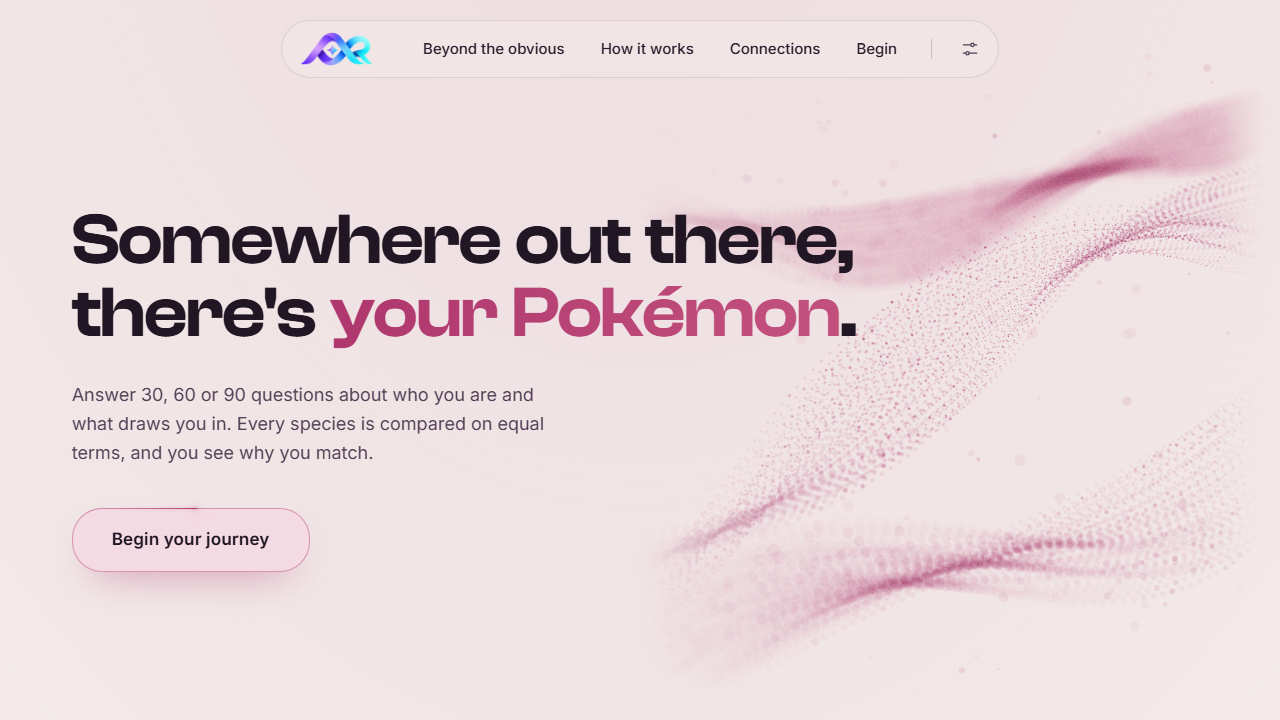
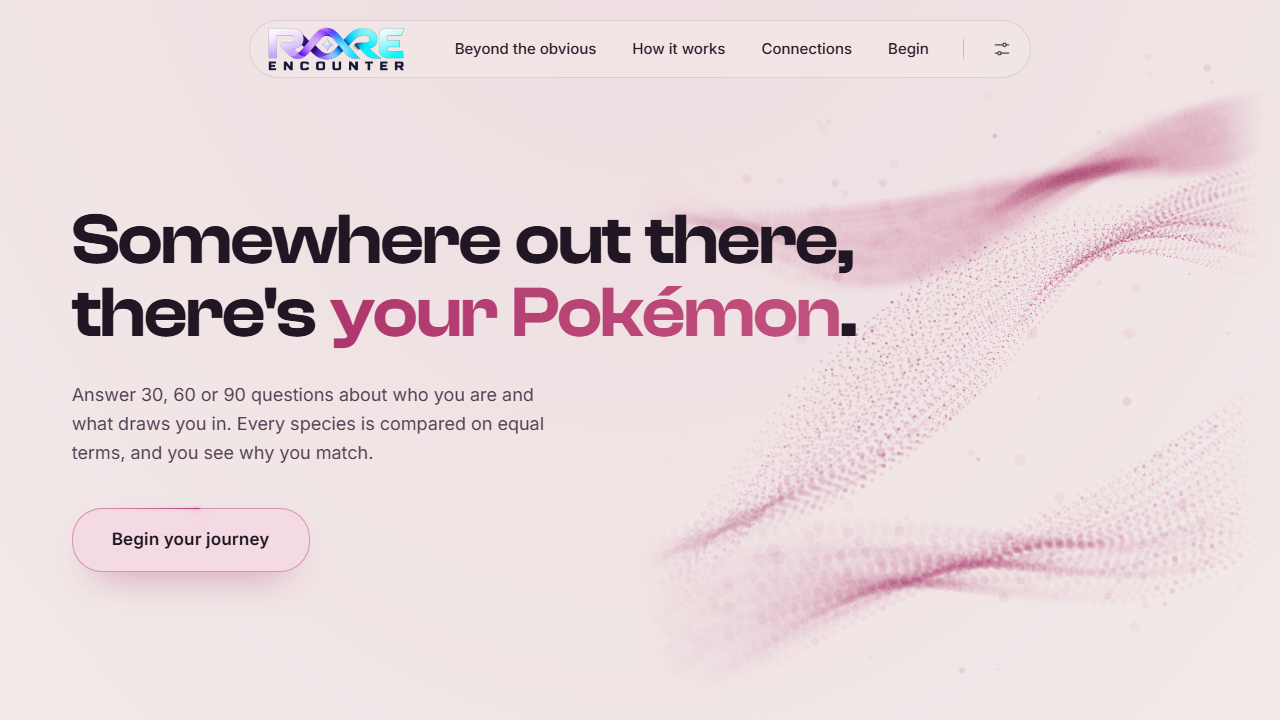
fix(visual-polish): light-surface finish of the logotype for light mode

Changed region(s): [[0.1875, 0.0306, 0.7188, 0.1222], [0.75, 0.0611, 0.7812, 0.0917]]

diff --git a/e2e/lunar-slider.spec.ts b/e2e/lunar-slider.spec.ts
@@ -195,11 +195,55 @@ test.describe('reduced motion', () => {
   });
 });
 
-test('light mode uses the compact symbol in the desktop nav', async ({ page }) => {
+test('the full logotype shows in both modes, with its light-surface finish in light', async ({
+  page,
+}) => {
   test.skip(!isDesktop(page), 'The full logotype only shows on the desktop nav');
   await seed(page, { schemaVersion: 2, data: { locale: null, theme: 'spectrum', mode: 'light' } });
   await page.goto('/');
-  await expect(page.locator('.liquid-nav .logo')).toHaveAttribute('data-variant', 'symbol');
+  const logo = page.locator('.liquid-nav .logo');
+  const image = logo.locator('img');
+  await expect(logo).toHaveAttribute('data-variant', 'full');
+  await expect(logo).toHaveAttribute('data-tone', 'light');
+  await expect(image).toHaveAttribute('src', /logo-onlight-88/);
+  const box = await logo.boundingBox();
+
+  // Switching mode swaps the finish only: same mark, same box, no shift.
+  const dialog = await openSettings(page);
+  await dialog.getByRole('switch', { name: 'Light mode' }).click();
+  await dialog.getByRole('button', { name: 'Close' }).click();
+  await expect(logo).toHaveAttribute('data-tone', 'dark');
+  await expect(image).toHaveAttribute('src', /logo-88/);
+  expect(await logo.boundingBox()).toEqual(box);
+
+  // A palette change keeps the finish of the current mode, also after a reload.
+  await (await openSettings(page)).getByRole('switch', { name: 'Light mode' }).click();
+  await page.getByRole('dialog').getByRole('radio', { name: 'Verdant' }).check();
+  await page.reload();
+  await expect(logo).toHaveAttribute('data-tone', 'light');
+  await expect(image).toHaveAttribute('src', /logo-onlight-88/);
+
+  // The condensed nav keeps the approved compact symbol.
+  await page.evaluate(() => {
+    window.scrollTo({ top: 900, behavior: 'instant' });
+  });
+  await expect(logo).toHaveAttribute('data-variant', 'symbol');
+});
+
+test('phones keep the compact symbol in the top bar, in both modes', async ({ page }) => {
+  test.skip(isDesktop(page), 'Top bar is the phone and tablet chrome');
+  for (const mode of ['dark', 'light'] as const) {
+    await page.goto('/');
+    await page.evaluate(
+      (v) => {
+        localStorage.setItem('rare-encounter:preferences', v);
+      },
+      JSON.stringify({ schemaVersion: 2, data: { locale: null, theme: 'sakura', mode } }),
+    );
+    await page.reload();
+    await expect(root(page)).toHaveAttribute('data-mode', mode);
+    await expect(page.locator('.top-bar .logo')).toHaveAttribute('data-variant', 'symbol');
+  }
 });
 
 test('no new horizontal overflow and no clipped settings in light mode', async ({ page }) => {

diff --git a/src/components/logo/logo-asset.ts b/src/components/logo/logo-asset.ts
@@ -1,5 +1,7 @@
 import logo88 from '../../assets/brand/logo-88.webp';
 import logo132 from '../../assets/brand/logo-132.webp';
+import logoOnLight88 from '../../assets/brand/logo-onlight-88.webp';
+import logoOnLight132 from '../../assets/brand/logo-onlight-132.webp';
 import symbol72 from '../../assets/brand/symbol-72.webp';
 import symbol108 from '../../assets/brand/symbol-108.webp';
 
@@ -14,8 +16,21 @@ export interface BrandImage {
  * The approved logotype and compact symbol, optimized from the authentic files in
  * design-references/approved/assets-01b with only their transparent margin trimmed
  * (never redrawn; see scripts/build-assets.mjs).
+ *
+ * `fullOnLight` is the same logotype for light surfaces: only the colour of the "ENCOUNTER"
+ * lettering changes (to the logo's own outline navy), with identical alpha and geometry; see
+ * scripts/make-logo-onlight.mjs.
  */
-export const LOGO_ASSET: { readonly full: BrandImage; readonly symbol: BrandImage } = {
+export const LOGO_ASSET: {
+  readonly full: BrandImage;
+  readonly fullOnLight: BrandImage;
+  readonly symbol: BrandImage;
+} = {
   full: { src: logo88, srcSet: `${logo88} 2x, ${logo132} 3x`, ratio: 1831 / 591 },
+  fullOnLight: {
+    src: logoOnLight88,
+    srcSet: `${logoOnLight88} 2x, ${logoOnLight132} 3x`,
+    ratio: 1831 / 591,
+  },
   symbol: { src: symbol72, srcSet: `${symbol72} 2x, ${symbol108} 3x`, ratio: 1061 / 492 },
 };

diff --git a/src/components/nav/SiteNav.tsx b/src/components/nav/SiteNav.tsx
@@ -12,12 +12,8 @@ export interface NavItem {
 
 interface SiteNavProps {
   readonly brand: string;
-  /**
-   * Whether the full logotype may show at the top of the page. False on light surfaces: the
-   * approved logotype's "ENCOUNTER" is drawn for the night and does not read on paper, so the
-   * approved compact symbol is used until a light-surface version of the logotype exists.
-   */
-  readonly fullLogo?: boolean;
+  /** The surface tone the nav sits on: picks the logotype's dark or light-surface finish. */
+  readonly logoTone?: 'dark' | 'light';
   readonly label: string;
   readonly items: readonly NavItem[];
   readonly activeId: string | null;
@@ -37,7 +33,7 @@ const SPRING = { type: 'spring', stiffness: 420, damping: 36, mass: 0.9 } as con
  */
 export function SiteNav({
   brand,
-  fullLogo = true,
+  logoTone = 'dark',
   label,
   items,
   activeId,
@@ -52,7 +48,7 @@ export function SiteNav({
   return (
     <header className="site-nav" data-scrolled={scrolled}>
       <motion.div className="liquid-nav" layout transition={SPRING}>
-        <Logo name={brand} variant={scrolled || !fullLogo ? 'symbol' : 'full'} />
+        <Logo name={brand} tone={logoTone} variant={scrolled ? 'symbol' : 'full'} />
         <nav aria-label={label}>
           <LayoutGroup id="liquid-nav">
             <ul

diff --git a/src/components/logo/Logo.tsx b/src/components/logo/Logo.tsx
@@ -11,13 +11,19 @@ interface LogoProps {
    * compact mark) for the condensed nav and phones, where the full lockup would be too small.
    */
   readonly variant?: 'full' | 'symbol';
+  /**
+   * The surface it sits on. On light surfaces the full logotype uses its light-surface
+   * finish ("ENCOUNTER" in the logo's navy); the symbol reads on both and is unchanged.
+   */
+  readonly tone?: 'dark' | 'light';
 }
 
 /** Brand link with the authentic logotype or compact symbol, crossfading between them. */
-export function Logo({ name, href = '#top', variant = 'full' }: LogoProps) {
-  const asset = LOGO_ASSET[variant];
+export function Logo({ name, href = '#top', variant = 'full', tone = 'dark' }: LogoProps) {
+  const asset =
+    variant === 'full' && tone === 'light' ? LOGO_ASSET.fullOnLight : LOGO_ASSET[variant];
   return (
-    <a className="logo" href={href} aria-label={name} data-variant={variant}>
+    <a className="logo" href={href} aria-label={name} data-variant={variant} data-tone={tone}>
       <AnimatePresence mode="popLayout" initial={false}>
         <motion.img
           key={variant}

diff --git a/src/components/layout/SiteLayout.tsx b/src/components/layout/SiteLayout.tsx
@@ -34,7 +34,7 @@ export function SiteLayout({ sections, children }: SiteLayoutProps) {
 
       <SiteNav
         brand={t('brand.name')}
-        fullLogo={mode === 'dark'}
+        logoTone={mode}
         label={t('nav.label')}
         items={sections}
         activeId={activeId}

diff --git a/docs/reports/VISUAL_POLISH_LUNAR_SLIDER_REPORT.md b/docs/reports/VISUAL_POLISH_LUNAR_SLIDER_REPORT.md
@@ -36,7 +36,8 @@ Branch `feature/visual-polish-lunar-slider`, created from local `main` at `c46fc
   - `index.html`: applies the mode before first paint; `data-mode="dark"` by default.
   - `src/hooks/useThemeColors.ts`: also re-reads on mode changes (signature unchanged).
   - `src/components/settings/{SettingsPanel.tsx, SettingsPanel.css}`: the Appearance group.
-  - `src/components/nav/SiteNav.tsx` and `src/components/layout/SiteLayout.tsx`: compact symbol in light mode (decision below).
+  - `src/components/nav/SiteNav.tsx`, `src/components/layout/SiteLayout.tsx`, `src/components/logo/{Logo.tsx, logo-asset.ts}`: the logotype's light-surface finish in light mode (section below).
+  - `scripts/make-logo-onlight.mjs` (new), `scripts/build-assets.mjs`: the light-surface logotype and its runtime sizes.
   - `src/components/archetype-card/ArchetypeCard.tsx`: local dark scope, since the art is dark glass.
   - `src/components/button/Button.css`: primary hover through a token.
   - `src/pages/landing/{Hero.tsx, sections/Begin.tsx, sections/Discovery.tsx}`: mode passed to the original props.
@@ -73,8 +74,32 @@ Branch `feature/visual-polish-lunar-slider`, created from local `main` at `c46fc
 - **No flash:** the inline script in `index.html` applies `data-mode` (and the `color-scheme` and `theme-color` meta tags) before first paint. The test records the mode at `DOMContentLoaded`, before the app runs.
 - **Untouched:** IndexedDB and journey data.
 
-## Design decision for Or7: the logo in light mode
-The approved logotype's "ENCOUNTER" is white with a thin outline and doesn't read on paper (`light-sections-logo-light.png`). The brand art wasn't recolored or redrawn. In light mode the desktop nav shows the **approved compact symbol**, as already happens on phones and in the condensed nav. Dark mode is unchanged. A light-surface version of the logotype from Or7 would bring the full logotype back.
+## The logotype in light mode (follow-up to `73ac115`)
+**Problem:** the approved logotype's "ENCOUNTER" is a white fill with a thin navy outline. On the night background the outline disappears and the white reads; on paper the white disappears and the letters look hollow (`logo-onlight/before-original-on-light.png`). The first version of this branch fell back to the compact symbol in light mode.
+
+**Fix:** a light-surface variant of the same logotype, made by `scripts/make-logo-onlight.mjs` from the approved raster. The original is never modified; the variant is `design-references/approved/assets-01b/logo-rare-encounter-transparent-onlight.png`.
+- **The band is separable.** The script finds fully transparent rows (573–575) between the "RARE" block and "ENCOUNTER", and stops unless they exist.
+- **What changes:** only the colour of the "ENCOUNTER" lettering (its opaque body and its antialiased edge within 2 px).
+  - It becomes the logo's own outline navy, **`#111636`**: the mean of 3,392 outline pixels already in the logo, not a new colour.
+  - Every pixel keeps its exact alpha, so geometry, antialiasing and spacing are identical.
+- **What doesn't change:** the soft halo around the letters (31,758 px) keeps its original colour, so no dark haze is added. "RARE", the symbol and its gradient are untouched.
+- **Proofs** (the script fails otherwise), confirmed by an independent diff:
+  - 0 px changed above the gap;
+  - 0 alpha differences anywhere;
+  - colour changed only in rows 594–714 (91,099 px), same 1968×799 size.
+- **Runtime:** `logo-onlight-88.webp` and `logo-onlight-132.webp` (273×88 and 409×132, the same crop and resampling as the original), built with `node scripts/build-assets.mjs logo-onlight`. A new optional filter builds only those, so no approved asset was rewritten.
+- **Code:**
+  - `Logo` gains `tone` (`dark` | `light`, the surface it sits on); `full` + `light` uses the light-surface image.
+  - `SiteNav` takes `logoTone` instead of the earlier `fullLogo`, and `SiteLayout` passes the mode.
+  - **Behaviour:** the full logotype shows at the top of the desktop page **in both modes**. The approved compact symbol stays in the condensed nav and on the phone and tablet top bar. Dark mode is identical to before (same image, same box).
+
+**Checked in the browser** (`logo-onlight/`, 3× crops):
+- **The right image in each of the 12 combinations:** `logo-132` in the six dark ones, `logo-onlight-132` in the six light ones.
+- **No shift:** logo box 164.3×44 and nav 781.4×58 in all 12.
+- **Approved compact behaviour kept:** symbol in the condensed nav in both modes, and on the mobile top bar in both modes, with no horizontal overflow.
+- **Also verified:** mode switch, palette switch and reload keep the right finish (E2E).
+
+**Observation for Or7:** "RARE" keeps its original white highlights inside the letters. On paper they read lighter than on the night: legible, but with less weight. They were left untouched because the brief preserves "RARE" and its gradient. A finishing pass on "RARE" for light surfaces, if wanted, would be a separate decision.
 
 ## Verification
 **Automated contrast** (computed colors in the browser, WCAG formula), **132 pairs** across the 12 combinations: **0 below target**.
@@ -108,7 +133,7 @@ Dark mode keeps the approved values (main text 17.35:1). This is an automated ch
 - keyboard and visible focus;
 - a 44 px touch target;
 - with motion (spring) and reduced motion (no intermediate frame);
-- compact symbol in light mode;
+- the full logotype in both modes, with its light-surface finish in light mode, the same box, and the compact symbol kept in the condensed nav and on phones;
 - no **new** horizontal overflow from dark to light at 320, 360, 375, 390, 768, 1024 and 1440 px;
 - settings usable at 320 px;
 - the 12 captures.
@@ -131,8 +156,25 @@ Dark mode keeps the approved values (main text 17.35:1). This is an automated ch
 - light-mode sections: Discovery, Connection, Begin on desktop and mobile;
 - the logo crop in both modes.
 
+**Follow-up run (light-surface logotype):**
+| Check | Result |
+| --- | --- |
+| typecheck / lint / production build | ✅ / ✅ / ✅ (JS 137.66 kB gzip, +0.08 kB; the two light-surface images load only in light mode: 17.5 and 29.5 kB) |
+| Vitest | ✅ 51/51 |
+| Playwright, full suite, 3 viewports | **91 passed, 1 failed, 31 skipped** |
+| Re-run of the failed test alone | ✅ 3/3 |
+| New logo tests (full logotype in both modes, finish follows mode/palette/reload, condensed nav and phone top bar keep the symbol) | ✅ all viewports |
+| 12-combination matrix recaptured | ✅ 14 passed |
+| React Bits integrity / safety scan | ✅ / ✅ |
+
+**The one failure:** the 01B hero test on tablet, "Test timeout of 30000 ms exceeded", with no failed assertion.
+- It runs in the default dark mode, where this follow-up changes nothing (same image, same box).
+- Re-run alone it passed 3/3 (about 15–20 s of test).
+- It's the documented load issue: WebGL in software in headless Chromium, plus a full-page capture.
+- The test was not changed.
+
 ## Known limits
-- **Logo in light mode:** compact symbol until a light version of the logotype exists (decision above).
+- **Logo in light mode:** resolved with a light-surface finish of the same logotype (section above); the "RARE" highlights are untouched (observation for Or7).
 - **Archetype cards:** they stay dark glass in light mode (approved art); they read as dark objects on paper, which is intentional and should get Or7's visual sign-off.
 - **320 px horizontal scroll:** the 5 px from the closing Star Border light are inherited from `main` (fixed in CP03, `fdbb8bb`). The test shows that light mode **adds** no overflow.
 - **Browsers:** only Chromium was run, which is the only one installed here.
